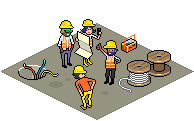
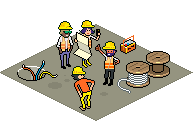
fix: land size

diff --git a/constants/index.ts b/constants/index.ts
@@ -18,8 +18,8 @@ export const FRONTEND_URL = "";
 // game
 export const GAME_APP_WIDTH = 2400;
 export const GAME_APP_HEIGHT = 1600;
-export const TILE_W = 97;
-export const TILE_H = 49;
+export const TILE_W = 97 - 1;
+export const TILE_H = 49 - 1;
 export const LAND_W = 1576;
 export const LAND_H = 813;
 export const LAND_OFFSET_Y = 10;
